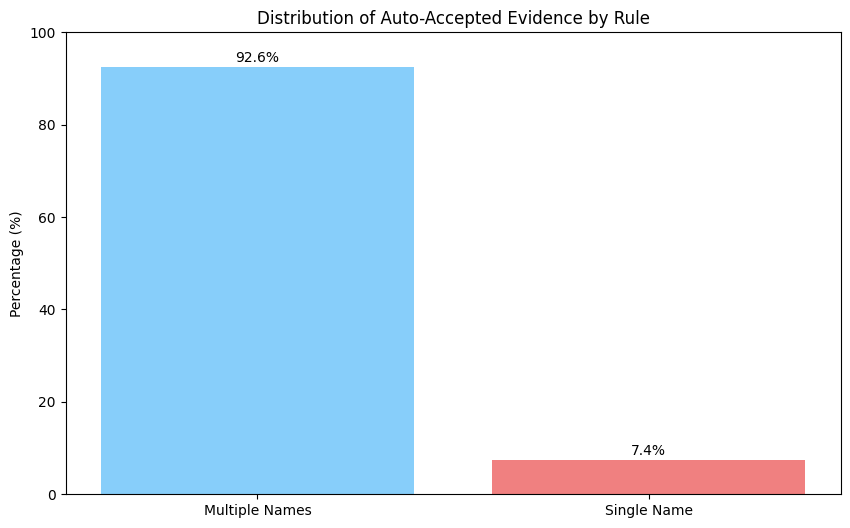
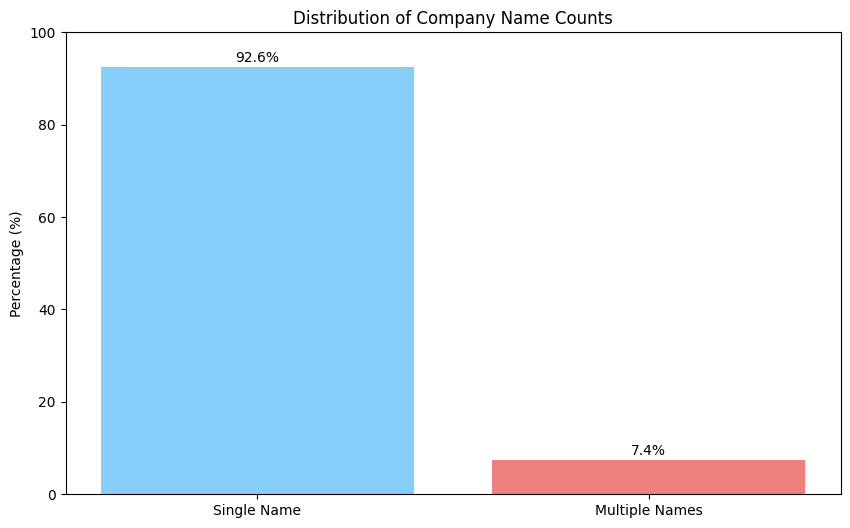
Fixed misslabled bars in security_master_priofiles_membership notebook and links in the entity_resolution markdown file.

Changed region(s): [[0.3059, 0.0, 0.7647, 0.0606], [0.7035, 0.9394, 0.8259, 1.0], [0.2447, 0.9394, 0.3671, 1.0]]

diff --git a/notebooks/data_notebooks/entity_resolution.md b/notebooks/data_notebooks/entity_resolution.md
@@ -205,15 +205,15 @@ Using the multi-candidate adjudication notebook, each `(ticker, validity_window)
 - **Rule 2** – multiple candidates, but exactly one with in-window periodic filings.
 - **Manual review** – anything that still can’t be resolved by periodic-based rules and lands in `ticker_cik_manual_adjudication`.
 
-![Distribution of evidence review outcomes](notebooks/data_notebooks/Distribution_of_Auto_Accepted_Evidence_by_Rule.png)
+![Distribution of evidence review outcomes](Distribution_of_Auto_Accepted_Evidence_by_Rule.png)
 
 The figure shows that the **vast majority of episodes are resolved deterministically** by periodic filings (Rule 1), a small additional slice by Rule 2, and only a **single-digit percentage** require manual adjudication. The manual layer is a narrow, explicitly audited tail rather than the main driver.
 
 ### 5.2 Name stability of candidate CIKs
 
-In the security-master notebook, after applying `company_name_canonicalizer`, `name_count` is computed and the number of distinct canonical company names observed per `(ticker, validity_window, candidate_cik)`.
+In the security-master notebook, after applying `company_name_canonicalizer`, `name_count` is computed as the number of distinct canonical company names observed per `(ticker, validity_window, candidate_cik)`.
 
-![Distribution of candidate CIKs by number of unique company names](notebooks/data_notebooks/Distribution_of_Company_Name_Counts.png)
+![Distribution of candidate CIKs by number of unique company names](Distribution_of_Company_Name_Counts.png)
 
 The plot shows that **most candidate CIKs have a single canonical name** over their S&P 500 window. Only a small fraction exhibit multiple canonical names and need explicit inspection. In other words, once you strip suffixes and formatting, genuine name ambiguity is the exception, not the rule.
 
@@ -229,7 +229,7 @@ My goal here is not to claim I’ve “improved” on their setup, but to show t
 - The **news exposures you compute** depend on whether you attach the right articles to the right firm at the right time.
 - The **over-intra patterns you measure** (continuation, reversals, cross-sectional spreads) can be biased by survivorship, ticker drift, or look-ahead in the identity layer.
 
-The meaning:
+In other words:
 
 > If two people run the same “news explains overnight vs intraday returns” model, but only one of them has done this kind of entity work, they are **not** doing the same research.
 
